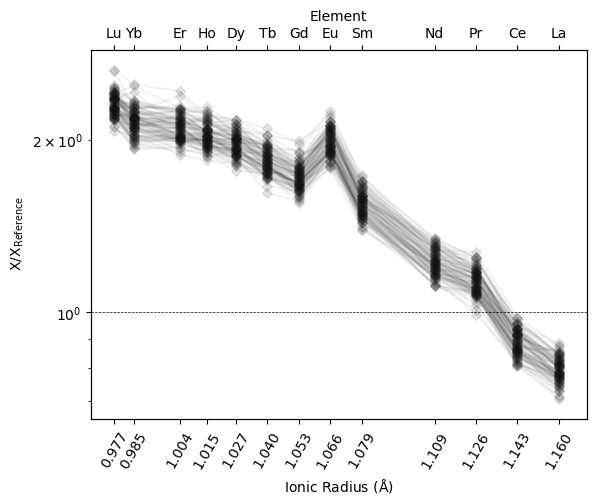
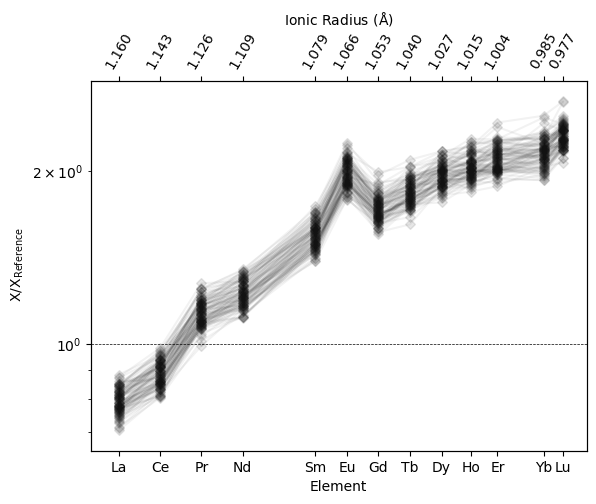
Switch x-axis for lambdas example
Minor docs update

diff --git a/docs/source/examples/geochem/lambdas.py b/docs/source/examples/geochem/lambdas.py
@@ -40,7 +40,7 @@ df = example_spider_data(
 ########################################################################################
 # Let's have a quick look at what this REE data looks like:
 #
-df.pyroplot.REE(index="radii", alpha=0.05, c="k", unity_line=True)
+df.pyroplot.REE(alpha=0.05, c="k", unity_line=True)
 plt.show()
 ########################################################################################
 # From this REE data we can fit a series of orthogonal polynomials, and subsequently used
@@ -105,7 +105,6 @@ plt.tight_layout()
 # We've used a synthetic dataset here which is by design approximately normally
 # distrtibuted, so the values themeselves here are not particularly revealing,
 # but they do illustrate the expected mangitudes of values for each of the parameters.
-
 #
 # For more on using orthogonal polynomials to describe geochemical pattern data, dig
 # into the paper which introduced the method to geochemists:

diff --git a/docs/source/usage/examples/_auto/geochem/lambdas.py b/docs/source/usage/examples/_auto/geochem/lambdas.py
@@ -1,5 +1,5 @@
 """
-lambdas: Parameterising REE Patterns
+lambdas: Parameterising REE Profiles
 =====================================
 
 Orthogonal polynomial decomposition can be used for dimensional reduction of smooth
@@ -40,7 +40,7 @@ df = example_spider_data(
 ########################################################################################
 # Let's have a quick look at what this REE data looks like:
 #
-df.pyroplot.REE(index="radii", alpha=0.05, c="k", unity_line=True)
+df.pyroplot.REE(alpha=0.05, c="k", unity_line=True)
 plt.show()
 ########################################################################################
 # From this REE data we can fit a series of orthogonal polynomials, and subsequently used

diff --git a/docs/source/examples/geochem/sg_execution_times.rst b/docs/source/examples/geochem/sg_execution_times.rst
@@ -5,26 +5,24 @@
 
 Computation times
 =================
-**00:22.712** total execution time for **examples_geochem** files:
+**00:04.015** total execution time for **examples_geochem** files:
 
-+------------------------------------------------------------------------------------------------------------+-----------+--------+
-| :ref:`sphx_glr_examples_geochem_lambdas_dimreduction.py` (``lambdas_dimreduction.py``)                     | 00:16.739 | 0.0 MB |
-+------------------------------------------------------------------------------------------------------------+-----------+--------+
-| :ref:`sphx_glr_examples_geochem_normalization.py` (``normalization.py``)                                   | 00:01.943 | 0.0 MB |
-+------------------------------------------------------------------------------------------------------------+-----------+--------+
-| :ref:`sphx_glr_examples_geochem_mineral_lattice.py` (``mineral_lattice.py``)                               | 00:01.516 | 0.0 MB |
-+------------------------------------------------------------------------------------------------------------+-----------+--------+
-| :ref:`sphx_glr_examples_geochem_lambdas_orthogonal_polynomials.py` (``lambdas_orthogonal_polynomials.py``) | 00:01.259 | 0.0 MB |
-+------------------------------------------------------------------------------------------------------------+-----------+--------+
-| :ref:`sphx_glr_examples_geochem_indexes_selectors.py` (``indexes_selectors.py``)                           | 00:00.361 | 0.0 MB |
-+------------------------------------------------------------------------------------------------------------+-----------+--------+
-| :ref:`sphx_glr_examples_geochem_mineral_endmembers.py` (``mineral_endmembers.py``)                         | 00:00.294 | 0.0 MB |
-+------------------------------------------------------------------------------------------------------------+-----------+--------+
-| :ref:`sphx_glr_examples_geochem_convert_chemistry.py` (``convert_chemistry.py``)                           | 00:00.259 | 0.0 MB |
-+------------------------------------------------------------------------------------------------------------+-----------+--------+
-| :ref:`sphx_glr_examples_geochem_shannon.py` (``shannon.py``)                                               | 00:00.206 | 0.0 MB |
-+------------------------------------------------------------------------------------------------------------+-----------+--------+
-| :ref:`sphx_glr_examples_geochem_scaling.py` (``scaling.py``)                                               | 00:00.084 | 0.0 MB |
-+------------------------------------------------------------------------------------------------------------+-----------+--------+
-| :ref:`sphx_glr_examples_geochem_mineral_mindb.py` (``mineral_mindb.py``)                                   | 00:00.051 | 0.0 MB |
-+------------------------------------------------------------------------------------------------------------+-----------+--------+
++------------------------------------------------------------------------------------+-----------+--------+
+| :ref:`sphx_glr_examples_geochem_lambdas.py` (``lambdas.py``)                       | 00:04.015 | 0.0 MB |
++------------------------------------------------------------------------------------+-----------+--------+
+| :ref:`sphx_glr_examples_geochem_convert_chemistry.py` (``convert_chemistry.py``)   | 00:00.000 | 0.0 MB |
++------------------------------------------------------------------------------------+-----------+--------+
+| :ref:`sphx_glr_examples_geochem_indexes_selectors.py` (``indexes_selectors.py``)   | 00:00.000 | 0.0 MB |
++------------------------------------------------------------------------------------+-----------+--------+
+| :ref:`sphx_glr_examples_geochem_mineral_endmembers.py` (``mineral_endmembers.py``) | 00:00.000 | 0.0 MB |
++------------------------------------------------------------------------------------+-----------+--------+
+| :ref:`sphx_glr_examples_geochem_mineral_lattice.py` (``mineral_lattice.py``)       | 00:00.000 | 0.0 MB |
++------------------------------------------------------------------------------------+-----------+--------+
+| :ref:`sphx_glr_examples_geochem_mineral_mindb.py` (``mineral_mindb.py``)           | 00:00.000 | 0.0 MB |
++------------------------------------------------------------------------------------+-----------+--------+
+| :ref:`sphx_glr_examples_geochem_normalization.py` (``normalization.py``)           | 00:00.000 | 0.0 MB |
++------------------------------------------------------------------------------------+-----------+--------+
+| :ref:`sphx_glr_examples_geochem_scaling.py` (``scaling.py``)                       | 00:00.000 | 0.0 MB |
++------------------------------------------------------------------------------------+-----------+--------+
+| :ref:`sphx_glr_examples_geochem_shannon.py` (``shannon.py``)                       | 00:00.000 | 0.0 MB |
++------------------------------------------------------------------------------------+-----------+--------+

diff --git a/docs/source/examples/geochem/lambdas.rst b/docs/source/examples/geochem/lambdas.rst
@@ -66,7 +66,7 @@ Let's have a quick look at what this REE data looks like:
 
 .. code-block:: default
 
-    df.pyroplot.REE(index="radii", alpha=0.05, c="k", unity_line=True)
+    df.pyroplot.REE(alpha=0.05, c="k", unity_line=True)
     plt.show()
 
 
@@ -177,28 +177,17 @@ We've used a synthetic dataset here which is by design approximately normally
 distrtibuted, so the values themeselves here are not particularly revealing,
 but they do illustrate the expected mangitudes of values for each of the parameters.
 
-
-.. code-block:: default
-
-
-    #
-    # For more on using orthogonal polynomials to describe geochemical pattern data, dig
-    # into the paper which introduced the method to geochemists:
-    # O’Neill, H.S.C., 2016. The Smoothness and Shapes of Chondrite-normalized Rare Earth
-    # Element Patterns in Basalts. J Petrology 57, 1463–1508.
-    # `doi: 10.1093/petrology/egw047 <https://doi.org/10.1093/petrology/egw047>`__.
-    #
-
-
-
-
-
+For more on using orthogonal polynomials to describe geochemical pattern data, dig
+into the paper which introduced the method to geochemists:
+O’Neill, H.S.C., 2016. The Smoothness and Shapes of Chondrite-normalized Rare Earth
+Element Patterns in Basalts. J Petrology 57, 1463–1508.
+`doi: 10.1093/petrology/egw047 <https://doi.org/10.1093/petrology/egw047>`__.
 
 
 
 .. rst-class:: sphx-glr-timing
 
-   **Total running time of the script:** ( 0 minutes  3.671 seconds)
+   **Total running time of the script:** ( 0 minutes  4.015 seconds)
 
 
 .. _sphx_glr_download_examples_geochem_lambdas.py:

diff --git a/docs/source/examples/index.rst b/docs/source/examples/index.rst
@@ -342,26 +342,6 @@ Geochemistry Examples
 
 .. raw:: html
 
-    <div class="sphx-glr-thumbcontainer" tooltip="A common task when working with mineral chemistry data is to take measured compositions and dec...">
-
-.. only:: html
-
- .. figure:: /examples/geochem/images/thumb/sphx_glr_mineral_endmembers_thumb.png
-
-     :ref:`sphx_glr_examples_geochem_mineral_endmembers.py`
-
-.. raw:: html
-
-    </div>
-
-
-.. toctree::
-   :hidden:
-
-   /examples/geochem/mineral_endmembers
-
-.. raw:: html
-
     <div class="sphx-glr-thumbcontainer" tooltip="Orthogonal polynomial decomposition can be used for dimensional reduction of smooth function ov...">
 
 .. only:: html
@@ -379,6 +359,26 @@ Geochemistry Examples
    :hidden:
 
    /examples/geochem/lambdas
+
+.. raw:: html
+
+    <div class="sphx-glr-thumbcontainer" tooltip="A common task when working with mineral chemistry data is to take measured compositions and dec...">
+
+.. only:: html
+
+ .. figure:: /examples/geochem/images/thumb/sphx_glr_mineral_endmembers_thumb.png
+
+     :ref:`sphx_glr_examples_geochem_mineral_endmembers.py`
+
+.. raw:: html
+
+    </div>
+
+
+.. toctree::
+   :hidden:
+
+   /examples/geochem/mineral_endmembers
 
 .. raw:: html
 
